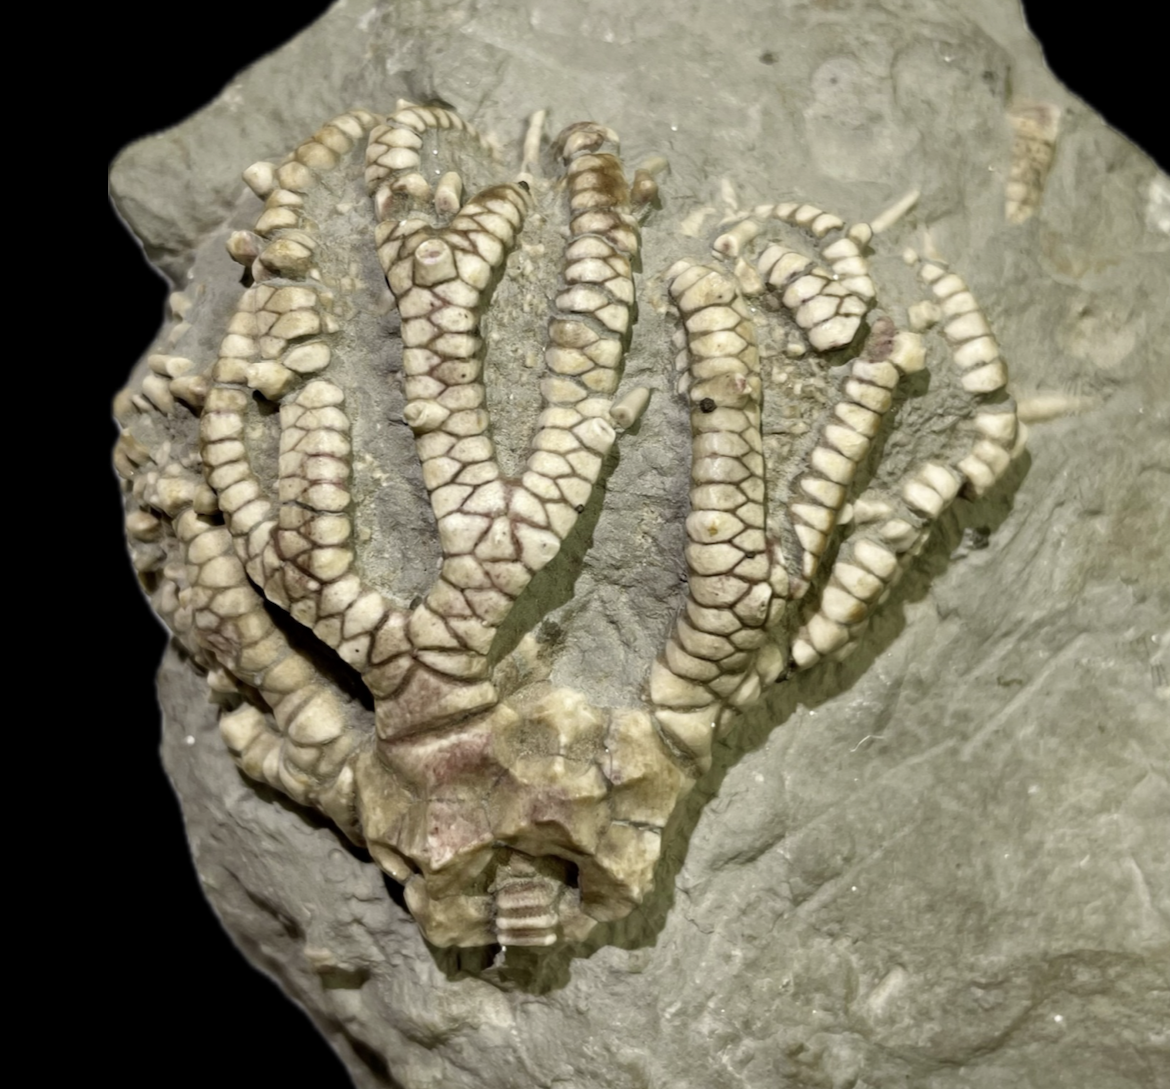
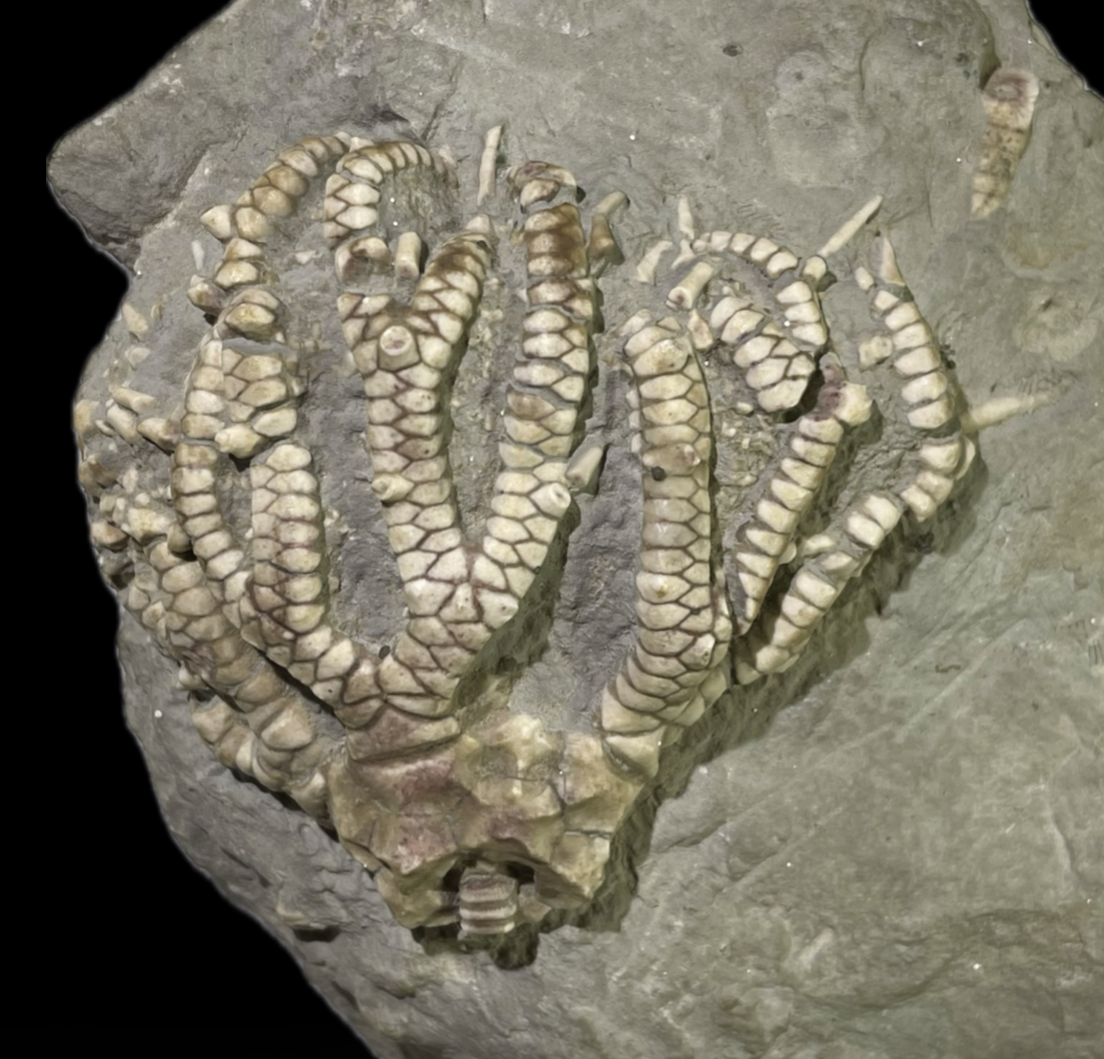
edit desc photos

diff --git a/crinoids/pennsylvanian/47-Cri-Pen-LaS-Ste.html b/crinoids/pennsylvanian/47-Cri-Pen-LaS-Ste.html
@@ -26,11 +26,11 @@
             
           </h3>
           <p>
-            This species is one of the more common constituents of the Pontiac crinoid fauna, but no less popular or beautiful for it. Stellarocrinus exhibits very widely-spraddled/well-separated thick biserial arms, along with a very shallow, highly-sculpted calyx, which gives its crown a very distinct appearance. The biserial arms also exemplify the emergence of so-called "advanced cladids" in the Pennsylvanian; a departure from the typical cladid arrangement of uniserial pinnulate arms. Officially, the ornamentation of the calyx and presence/absence of axillary spines on the arms distinguish different species of the genus. However I am not personally fully convinced of this distinction, because it seems these features are highly variable and intermediate forms seem to exist.
+            "Stellarocrinus virgilensis" is one of the more common constituents of the LaSalle crinoid fauna, but no less popular or beautiful for it. The genus exhibits very widely-spraddled/well-separated thick biserial arms along with a very shallow, highly-sculpted calyx, which give its crown a very distinct appearance. Its biserial arms also exemplify a trait of so-called "advanced cladids" in the Pennsylvanian, and a departure from the primitive cladid arrangement of uniserial pinnulate arms. <br><br>Officially, the ornamentation of the calyx and presence or absence of axillary spines on the arms distinguish the two species of Stellarocrinus found in the LaSalle Limestone. However I am not personally fully convinced of this distinction, because these features seem quite variable and intermediate forms seem to exist.
           </p>
         </th>
         <th style="text-align: center;">
-            <img src="47-Cri-Pen-LaS-Ste_1.PNG" style="width:100%">
+            <img src="47-Cri-Pen-LaS-Ste_1.PNG"><img src="47-Cri-Pen-LaS-Ste_2.PNG">
         </th>
       </tr>
     </table>
